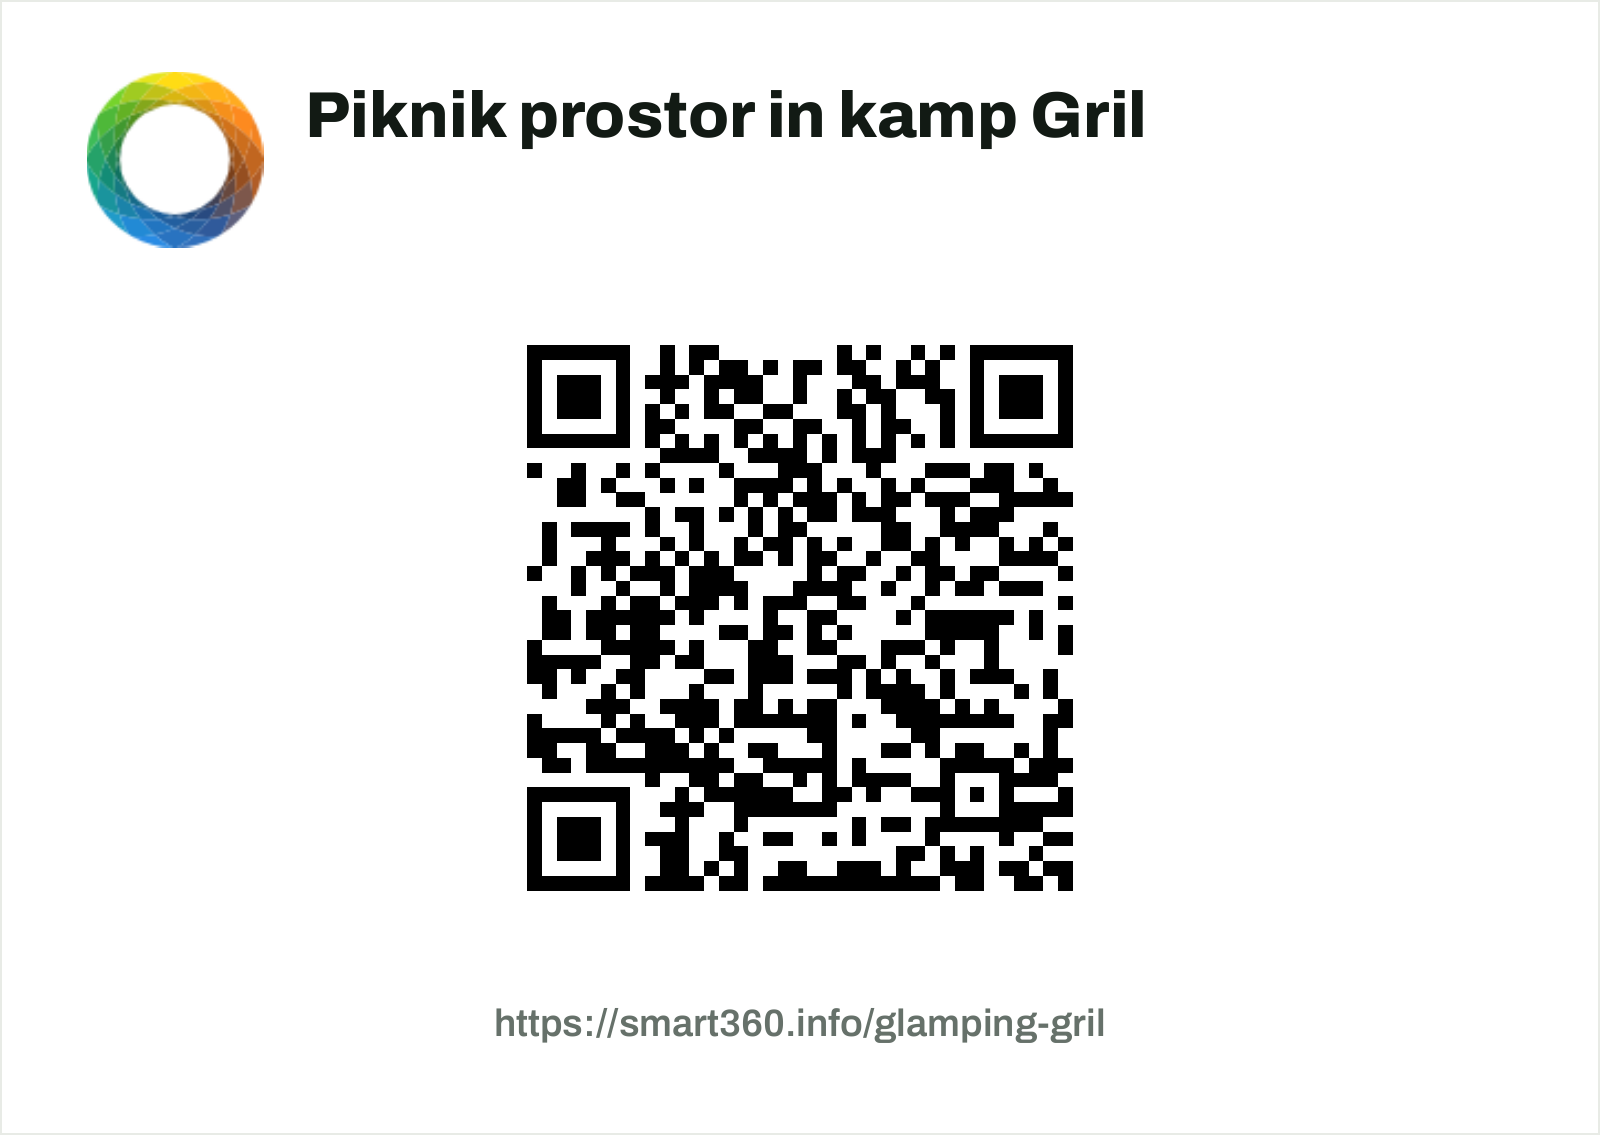
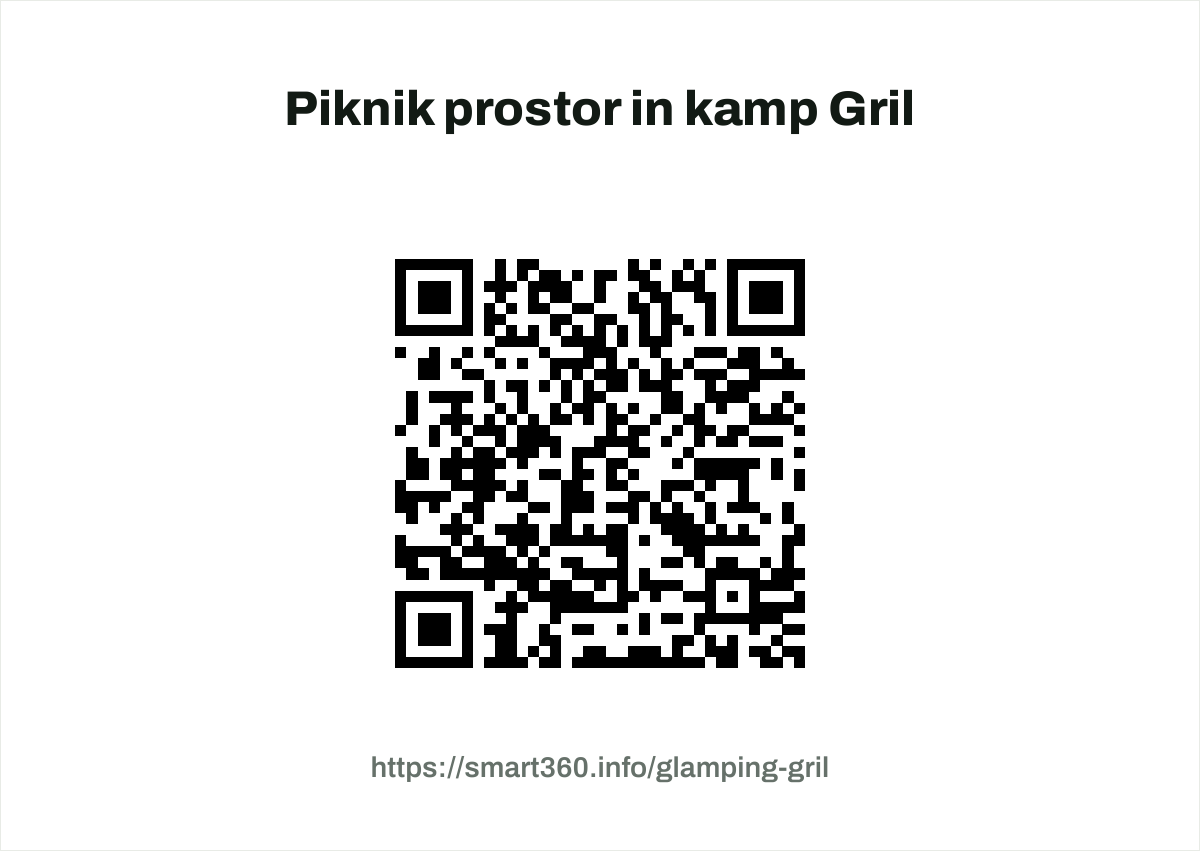
Update agent assets and update guide ready notice logic and tests
Replit-Commit-Author: Agent

diff --git a/artifacts/api-server/src/lib/guideReadyNotice.ts b/artifacts/api-server/src/lib/guideReadyNotice.ts
@@ -111,10 +111,9 @@ async function asset(file: string): Promise<Buffer> {
 
 /** A6 landscape (419.53 × 297.64 pt), PDF vector squares, four-module quiet zone. */
 export async function makeReadySticker(input: ReadyInput): Promise<Buffer> {
-  const [titleFont, urlFont, znak] = await Promise.all([
+  const [titleFont, urlFont] = await Promise.all([
     asset("artifacts/api-server/assets/Archivo-800.ttf"),
     asset("artifacts/api-server/assets/Archivo-600.ttf"),
-    asset("artifacts/smart360/public/brand/smart360-znak-40.png"),
   ]);
   const matrix = QRCode.create(input.guideUrl, { errorCorrectionLevel: "H" }).modules;
   const width = 419.53, height = 297.64, qrSize = 174;
@@ -129,19 +128,18 @@ export async function makeReadySticker(input: ReadyInput): Promise<Buffer> {
     doc.rect(0, 0, width, height).fill("#FFFFFF");
     // Half-point hairline entirely inside the trim edge; no print bleed.
     doc.lineWidth(0.5).strokeColor("#E8EBE6").rect(0.25, 0.25, width - 0.5, height - 0.5).stroke();
-    doc.image(znak, 23, 19, { width: 46, height: 46 });
     doc.registerFont("Archivo800", titleFont);
     doc.registerFont("Archivo600", urlFont);
     // Wrap the complete tenant name (never use ellipsis). Shrink only if it
     // exceeds the header's two-line allowance; reject impossible long labels.
     const name = input.tenantName.trim();
     if (!name) throw new Error("Tenant name is required for QR sticker");
-    const nameWidth = width - 103;
+    const nameWidth = width - 46;
     let nameSize = 17;
     doc.font("Archivo800");
     while (nameSize >= 8 && doc.fontSize(nameSize).heightOfString(name, { width: nameWidth, lineGap: 0 }) > 44) nameSize -= 0.5;
     if (nameSize < 8) throw new Error("Tenant name is too long for A6 sticker");
-    doc.fontSize(nameSize).fillColor("#121A14").text(name, 80, 21, { width: nameWidth, lineGap: 0 });
+    doc.fontSize(nameSize).fillColor("#121A14").text(name, 23, 29, { width: nameWidth, lineGap: 0, align: "center" });
     doc.fillColor("#000000");
     for (let y = 0; y < matrix.size; y++) {
       for (let x = 0; x < matrix.size; x++) {

diff --git a/artifacts/api-server/src/tests/guide-ready-notice.test.ts b/artifacts/api-server/src/tests/guide-ready-notice.test.ts
@@ -72,6 +72,8 @@ test("intercepted recipient and independent archive each contain vector PDF + CI
       writeFileSync(file, pdf);
       const info = execFileSync("pdfinfo", [file], { encoding: "utf8" });
       assert.match(info, /Page size:\s+419\.53 x 297\.64 pts/);
+      const images = execFileSync("pdfimages", ["-list", file], { encoding: "utf8" });
+      assert.equal(images.trim().split("\n").length, 2, "sticker has no logo or raster images");
       const fonts = execFileSync("pdffonts", [file], { encoding: "utf8" });
       assert.match(fonts, /Archivo-ExtraBold/);
       assert.match(fonts, /Archivo-SemiBold/);

diff --git a/.agents/memory/direct-mail-delivery.md b/.agents/memory/direct-mail-delivery.md
@@ -20,3 +20,9 @@ Manual guide-ready mail must follow the owner's explicit visual specification, n
 **Why:** The existing welcome renderer had a 20px mark and an orange stripe, while the owner explicitly required a 46px official mark, no new decoration, green pill buttons and a 16px card. The requested PDF also requires distinct Archivo 800/600 weights, not merely an Archivo font.
 
 **How to apply:** Compare actual rendered previews and computed measurements against the approved specification before presenting mail for visual approval. Never send a real preview email without approval. Archive delivery is a separate best-effort send so an archive failure cannot invalidate the host's successful delivery.
+
+The owner explicitly removed the Smart360 mark from the print sticker only on 2026-09-24; email branding remains unchanged.
+
+**Why:** The print layout should contain only the centered tenant name, QR and URL with its existing cutting border, not reserve space for brand imagery.
+
+**How to apply:** Do not reintroduce the email's logo into the PDF when sharing rendering assets.
